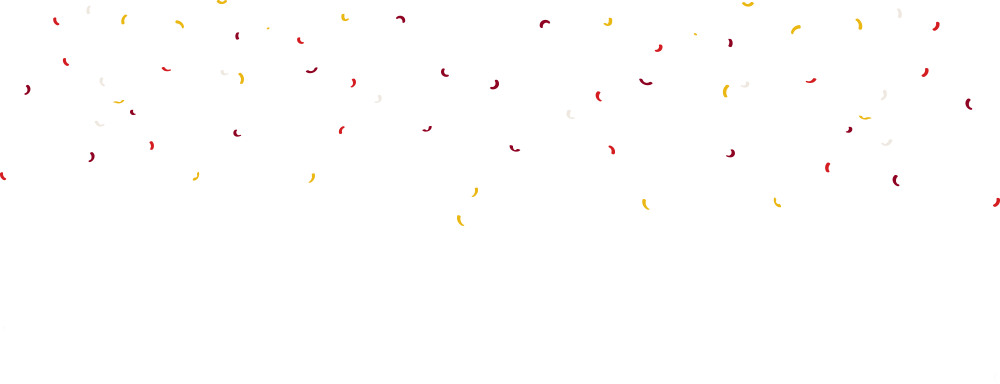
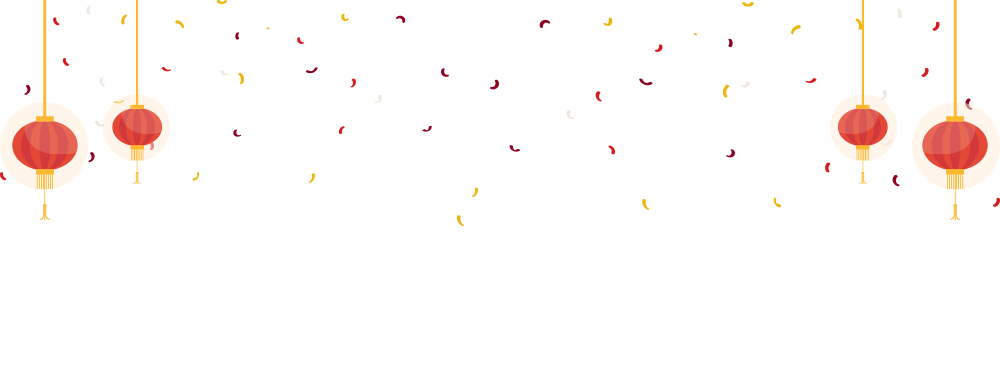
about+內頁版型完成

diff --git a/css/public.css b/css/public.css
@@ -1,1 +1,1 @@
-*,*:after,*:before{vertical-align:top;-moz-box-sizing:border-box;-webkit-box-sizing:border-box;box-sizing:border-box;-moz-osx-font-smoothing:antialiased;-webkit-font-smoothing:antialiased;-moz-font-smoothing:antialiased;-ms-font-smoothing:antialiased;-o-font-smoothing:antialiased}*::-moz-selection,*:after::-moz-selection,*:before::-moz-selection{color:#fff;background-color:#96c8ff}*::selection,*:after::selection,*:before::selection{color:#fff;background-color:#96c8ff}html{height:100%;min-height:100%}html body{position:relative;display:inline-block;width:100%;height:100%;min-height:100%;margin:0;padding:0;color:#5a5a5a;text-align:center;font-size:medium;font-family:Roboto, RobotoDraft, Helvetica, Arial, sans-serif, "微軟正黑體", "Microsoft JhengHei";background:#f4e3d3;-moz-osx-font-smoothing:antialiased;-webkit-font-smoothing:antialiased;-moz-font-smoothing:antialiased;-ms-font-smoothing:antialiased;-o-font-smoothing:antialiased}html body.in_b{background-image:url(../img/bg.jpg)}header{display:inline-block;width:100%;padding:30px 0;background-color:rgba(156,15,1,0.5)}@media screen and (max-width: 849px) and (min-width: 685px){header{padding:30px 10px}}@media screen and (max-width: 684px) and (min-width: 0){header{padding:10px}}header .nav_boxs{display:inline-block;width:100%;max-width:1000px;margin:0 auto}@media screen and (max-width: 684px) and (min-width: 0){header .nav_boxs{*zoom:1}header .nav_boxs:after{display:table;content:"";line-height:0;clear:both}}header .nav_boxs .menu_list{display:none;float:left;font-size:30px;color:#fcd081}@media screen and (max-width: 484px) and (min-width: 0){header .nav_boxs .menu_list{display:inline-block}}header .nav_boxs .nav_box{display:inline-block}@media screen and (max-width: 737px) and (min-width: 485px){header .nav_boxs .nav_box{width:calc(100% / 3);float:left;margin:8px 0}header .nav_boxs .nav_box:nth-child(3n+2){border-right:1px solid #fcd081;border-left:1px solid #fcd081}header .nav_boxs .nav_box:nth-child(1),header .nav_boxs .nav_box:nth-child(2),header .nav_boxs .nav_box:nth-child(3){margin-bottom:20px}}@media screen and (max-width: 484px) and (min-width: 0){header .nav_boxs .nav_box{display:none}}header .nav_boxs .nav_box:after{display:inline-block;content:'│';color:#fcd081;padding:0 10px}@media screen and (max-width: 737px) and (min-width: 0){header .nav_boxs .nav_box:after{display:none}}header .nav_boxs .nav_box:last-child:after{display:none}header .nav_boxs .nav_box a{display:inline-block;cursor:pointer;color:#fcd081;font-size:18px;line-height:20px;font-weight:600;text-decoration:none;-moz-transition:color .3s;-o-transition:color .3s;-webkit-transition:color .3s;transition:color .3s}header .nav_boxs .nav_box a:hover,header .nav_boxs .nav_box a:active{color:white}@media screen and (max-width: 799px) and (min-width: 738px){header .nav_boxs .nav_box a{font-size:16px}}@media screen and (max-width: 737px) and (min-width: 0){header .nav_boxs .nav_box a{font-size:18px}}#top{display:inline-block;width:100%}#top .top_boxs{display:inline-block;width:100%;background-image:url(../img/bg.jpg);padding:20px 0}#top .top_boxs .top_box{display:inline-block;width:100%;max-width:1000px;margin:0 auto;position:relative}#top .top_boxs .top_box img{width:100%;max-width:477px}#top .top_boxs .top_box .a_home{display:inline-block;cursor:pointer;width:40px;height:40px;position:absolute;top:6px;right:0;color:#d9972e;text-decoration:none;font-size:40px}#top .top_boxs .top_box .a_home:hover,#top .top_boxs .top_box .a_home:active{color:rgba(217,151,46,0.8)}#top .top_nav{display:inline-block;width:100%;background-color:#b88d60;padding:15px 0}#top .top_nav .top_nav_boxs{display:inline-block;width:100%;max-width:1000px;margin:0 auto;*zoom:1}#top .top_nav .top_nav_boxs:after{display:table;content:"";line-height:0;clear:both}#top .top_nav .top_nav_boxs .top_menu{display:inline-block;width:calc(100% / 6);float:left;border-right:1px solid white}#top .top_nav .top_nav_boxs .top_menu a{display:inline-block;text-decoration:none;color:white;font-size:18px;cursor:pointer;-moz-transition:all .3s;-o-transition:all .3s;-webkit-transition:all .3s;transition:all .3s;font-weight:600}#top .top_nav .top_nav_boxs .top_menu a:hover,#top .top_nav .top_nav_boxs .top_menu a:active,#top .top_nav .top_nav_boxs .top_menu a.aa{color:#92271c}.mobile_boxs{display:inline-block;width:100%;background-color:#b88d60;text-align:left;padding:0 10px}.mobile_boxs.no_show{display:none}.mobile_boxs a{display:inline-block;width:100%;line-height:50px;font-size:18px;text-decoration:none;color:white;font-weight:600;border-bottom:1px dotted rgba(252,208,129,0.8)}.mobile_boxs a:last-child{border:0}.mobile_boxs a:hover,.mobile_boxs a:active{color:#8c0e0d}#center{display:inline-block;width:100%}@media screen and (max-width: 849px) and (min-width: 0){#center{padding:0 10px}}#center .center_boxs{display:inline-block;width:100%;max-width:1000px;position:relative;padding:100px 0;margin:0 auto}#center .center_boxs.page_cent{padding:0}#center .center_boxs.page_cent:before,#center .center_boxs.page_cent:after{display:none}#center .center_boxs img{width:100%;max-width:919px}#center .center_boxs:before{display:inline-block;content:'';position:absolute;top:0;right:0;background-image:url(../img/f_dog.png);width:143px;height:189px;z-index:-10}#center .center_boxs:after{display:inline-block;content:'';position:absolute;bottom:0;left:0;background-image:url(../img/f_dog.png);width:143px;height:189px;z-index:-10}#center .center_boxs .title_boxs{display:inline-block;width:100%;max-height:384px;background:url(../img/tb_bg.png) no-repeat;*zoom:1}#center .center_boxs .title_boxs:after{display:table;content:"";line-height:0;clear:both}#center .center_boxs .title_boxs .title_name{display:inline-block;width:calc(100% - 170px * 2);padding:50px 0}#center .center_boxs .title_boxs .title_name .title_bg{display:inline-block;width:100%;max-width:371px;height:81px;background:url(../img/title_bg.png) no-repeat;color:#aa2729;font-size:35px;font-weight:600;line-height:60px}#center .center_boxs .title_boxs img{display:inline-block;width:100%;max-width:170px}#center .center_boxs .title_boxs img.il{float:left}#center .center_boxs .title_boxs img.ir{float:right}footer{display:inline-block;width:100%}footer .ft_bg,footer .fd_bg{display:inline-block;width:100%;padding:15px 0}@media screen and (max-width: 849px) and (min-width: 0){footer .ft_bg,footer .fd_bg{padding:15px 10px}}footer .ft_bg{background-color:#e95d07}footer .ft_bg .ft_boxs{display:inline-block;width:100%;max-width:1000px;margin:0 auto}footer .ft_bg .ft_boxs p{display:inline-block;padding:0 30px 0 0;margin:0;color:white;font-size:15px}@media screen and (max-width: 564px) and (min-width: 0){footer .ft_bg .ft_boxs p{width:100%;padding:0;line-height:25px}}footer .fd_bg{background-color:#55187a}footer .fd_bg .fd_boxs{display:inline-block;width:100%;max-width:1000px;margin:0 auto}footer .fd_bg .fd_boxs span{display:inline-block;width:100%;text-align:left;*zoom:1}footer .fd_bg .fd_boxs span:after{display:table;content:"";line-height:0;clear:both}@media screen and (max-width: 484px) and (min-width: 0){footer .fd_bg .fd_boxs span{padding-bottom:15px}}footer .fd_bg .fd_boxs span p{display:inline-block;width:75px;padding:0;margin:0;color:white;font-size:14px;float:left;line-height:25px}footer .fd_bg .fd_boxs span p:last-child{width:calc(100% - 75px)}@media screen and (max-width: 484px) and (min-width: 0){footer .fd_bg .fd_boxs span p:last-child{width:100%}}@media screen and (max-width: 484px) and (min-width: 0){footer .fd_bg .fd_boxs span p{width:100%}}
+*,*:after,*:before{vertical-align:top;-moz-box-sizing:border-box;-webkit-box-sizing:border-box;box-sizing:border-box;-moz-osx-font-smoothing:antialiased;-webkit-font-smoothing:antialiased;-moz-font-smoothing:antialiased;-ms-font-smoothing:antialiased;-o-font-smoothing:antialiased}*::-moz-selection,*:after::-moz-selection,*:before::-moz-selection{color:#fff;background-color:#96c8ff}*::selection,*:after::selection,*:before::selection{color:#fff;background-color:#96c8ff}html{height:100%;min-height:100%}html body{position:relative;display:inline-block;width:100%;height:100%;min-height:100%;margin:0;padding:0;color:#5a5a5a;text-align:center;font-size:medium;font-family:Helvetica, Arial, sans-serif, "微軟正黑體", "Microsoft JhengHei";background:#f4e3d3;-moz-osx-font-smoothing:antialiased;-webkit-font-smoothing:antialiased;-moz-font-smoothing:antialiased;-ms-font-smoothing:antialiased;-o-font-smoothing:antialiased}html body.in_b{background-image:url(../img/bg.jpg)}header{display:inline-block;width:100%;padding:30px 0;background-color:rgba(156,15,1,0.5)}@media screen and (max-width: 849px) and (min-width: 685px){header{padding:30px 10px}}@media screen and (max-width: 684px) and (min-width: 0){header{padding:10px}}header .nav_boxs{display:inline-block;width:100%;max-width:1000px;margin:0 auto}@media screen and (max-width: 684px) and (min-width: 0){header .nav_boxs{*zoom:1}header .nav_boxs:after{display:table;content:"";line-height:0;clear:both}}header .nav_boxs .menu_list{display:none;float:left;font-size:30px;color:#fcd081}@media screen and (max-width: 484px) and (min-width: 0){header .nav_boxs .menu_list{display:inline-block}}header .nav_boxs .nav_box{display:inline-block}@media screen and (max-width: 737px) and (min-width: 485px){header .nav_boxs .nav_box{width:calc(100% / 3);float:left;margin:8px 0}header .nav_boxs .nav_box:nth-child(3n+2){border-right:1px solid #fcd081;border-left:1px solid #fcd081}header .nav_boxs .nav_box:nth-child(1),header .nav_boxs .nav_box:nth-child(2),header .nav_boxs .nav_box:nth-child(3){margin-bottom:20px}}@media screen and (max-width: 484px) and (min-width: 0){header .nav_boxs .nav_box{display:none}}header .nav_boxs .nav_box:after{display:inline-block;content:'│';color:#fcd081;padding:0 10px}@media screen and (max-width: 737px) and (min-width: 0){header .nav_boxs .nav_box:after{display:none}}header .nav_boxs .nav_box:last-child:after{display:none}header .nav_boxs .nav_box a{display:inline-block;cursor:pointer;color:#fcd081;font-size:18px;line-height:20px;font-weight:600;text-decoration:none;-moz-transition:color .3s;-o-transition:color .3s;-webkit-transition:color .3s;transition:color .3s}header .nav_boxs .nav_box a:hover,header .nav_boxs .nav_box a:active{color:white}@media screen and (max-width: 799px) and (min-width: 738px){header .nav_boxs .nav_box a{font-size:16px}}@media screen and (max-width: 737px) and (min-width: 0){header .nav_boxs .nav_box a{font-size:18px}}#top{display:inline-block;width:100%}#top .top_boxs{display:inline-block;width:100%;background-image:url(../img/bg.jpg);padding:20px 0}#top .top_boxs .top_box{display:inline-block;width:100%;max-width:1000px;margin:0 auto;position:relative}#top .top_boxs .top_box img{width:100%;max-width:477px}#top .top_boxs .top_box .a_home{display:inline-block;cursor:pointer;width:40px;height:40px;position:absolute;top:6px;right:0;color:#d9972e;text-decoration:none;font-size:40px}#top .top_boxs .top_box .a_home:hover,#top .top_boxs .top_box .a_home:active{color:rgba(217,151,46,0.8)}@media screen and (max-width: 1059px) and (min-width: 450px){#top .top_boxs .top_box .a_home{margin:0 5px}}@media screen and (max-width: 449px) and (min-width: 0){#top .top_boxs .top_box .a_home{display:none}}#top .top_nav{display:inline-block;width:100%;background-color:#b88d60;padding:15px 0}#top .top_nav .top_nav_boxs{display:inline-block;width:100%;max-width:1000px;margin:0 auto;*zoom:1}#top .top_nav .top_nav_boxs:after{display:table;content:"";line-height:0;clear:both}#top .top_nav .top_nav_boxs .top_menu{display:inline-block;width:calc(100% / 6);float:left;border-right:1px solid white}#top .top_nav .top_nav_boxs .top_menu:last-child{border:0}@media screen and (max-width: 899px) and (min-width: 450px){#top .top_nav .top_nav_boxs .top_menu{width:calc(100% / 3)}#top .top_nav .top_nav_boxs .top_menu:nth-child(1),#top .top_nav .top_nav_boxs .top_menu:nth-child(2),#top .top_nav .top_nav_boxs .top_menu:nth-child(3){margin-bottom:20px}#top .top_nav .top_nav_boxs .top_menu:nth-child(3){border:0}}@media screen and (max-width: 449px) and (min-width: 0){#top .top_nav .top_nav_boxs .top_menu{display:none}}#top .top_nav .top_nav_boxs .top_menu a{display:inline-block;text-decoration:none;color:white;font-size:18px;cursor:pointer;-moz-transition:all .3s;-o-transition:all .3s;-webkit-transition:all .3s;transition:all .3s;font-weight:600}#top .top_nav .top_nav_boxs .top_menu a:hover,#top .top_nav .top_nav_boxs .top_menu a:active,#top .top_nav .top_nav_boxs .top_menu a.aa{color:#92271c}#top .top_nav .page_menu_list{display:none;float:left;font-size:30px;color:#fcd081;margin-left:10px}@media screen and (max-width: 449px) and (min-width: 0){#top .top_nav .page_menu_list{display:inline-block}}#top .top_nav .page_menu_home{display:none;float:right;font-size:30px;color:#fcd081;margin-right:10px;text-decoration:none}@media screen and (max-width: 449px) and (min-width: 0){#top .top_nav .page_menu_home{display:inline-block}}.mobile_boxs{display:inline-block;width:100%;background-color:#b88d60;text-align:left;padding:0 10px}.mobile_boxs.no_show{display:none}.mobile_boxs a{display:inline-block;width:100%;line-height:50px;font-size:18px;text-decoration:none;color:white;font-weight:600;border-bottom:1px dotted rgba(252,208,129,0.8)}.mobile_boxs a:last-child{border:0}.mobile_boxs a:hover,.mobile_boxs a:active{color:#8c0e0d}#center{display:inline-block;width:100%}#center .center_boxs{display:inline-block;width:100%;max-width:1000px;position:relative;padding:100px 0;margin:0 auto}#center .center_boxs.page_cent{padding:0}#center .center_boxs.page_cent:before,#center .center_boxs.page_cent:after{display:none}#center .center_boxs img{width:100%;max-width:919px}#center .center_boxs:before{display:inline-block;content:'';position:absolute;top:0;right:0;background-image:url(../img/f_dog.png);width:143px;height:189px;z-index:-10}#center .center_boxs:after{display:inline-block;content:'';position:absolute;bottom:0;left:0;background-image:url(../img/f_dog.png);width:143px;height:189px;z-index:-10}#center .center_boxs .title_boxs{display:inline-block;width:100%;padding:50px;background:url(../img/tb_bg.png) no-repeat;background-size:cover;*zoom:1;position:relative}#center .center_boxs .title_boxs:after{display:table;content:"";line-height:0;clear:both}@media screen and (max-width: 1059px) and (min-width: 0){#center .center_boxs .title_boxs{padding:30px 0}}#center .center_boxs .title_boxs .title_name{display:inline-block;width:100%;padding:50px 0}@media screen and (max-width: 324px) and (min-width: 0){#center .center_boxs .title_boxs .title_name{padding:25px 0}}#center .center_boxs .title_boxs .title_name .title_bg{display:inline-block;width:100%;max-width:371px;background:url(../img/title_bg.png) no-repeat;padding:5px 0 25px 0;color:#aa2729;font-size:35px;font-weight:600}@media screen and (max-width: 374px) and (min-width: 325px){#center .center_boxs .title_boxs .title_name .title_bg{background-size:99%}}@media screen and (max-width: 324px) and (min-width: 0){#center .center_boxs .title_boxs .title_name .title_bg{background-size:99%;padding:5px 0 25px 0;font-size:28px}}#center .center_boxs .content_boxs{display:inline-block;width:100%}@media screen and (max-width: 1059px) and (min-width: 0){#center .center_boxs .content_boxs{padding:0 10px}}#center .center_boxs .content_boxs .path_boxs{display:inline-block;width:100%;padding-bottom:30px;*zoom:1}#center .center_boxs .content_boxs .path_boxs:after{display:table;content:"";line-height:0;clear:both}@media screen and (max-width: 399px) and (min-width: 0){#center .center_boxs .content_boxs .path_boxs{padding-bottom:20px}}#center .center_boxs .content_boxs .path_boxs>div{display:inline-block;float:left}#center .center_boxs .content_boxs .path_boxs>div:after{display:inline-block;content:'>';color:#b88d60;font-size:16px;font-weight:600;padding:0 10px}#center .center_boxs .content_boxs .path_boxs>div:first-child a{font-size:25px}#center .center_boxs .content_boxs .path_boxs>div:last-child:after{display:none}#center .center_boxs .content_boxs .path_boxs>div a{display:inline-block;cursor:pointer;text-decoration:none;color:#b88d60;font-size:18px;font-weight:600;-moz-transition:all .3s;-o-transition:all .3s;-webkit-transition:all .3s;transition:all .3s}#center .center_boxs .content_boxs .path_boxs>div a:hover,#center .center_boxs .content_boxs .path_boxs>div a:active{color:rgba(217,151,46,0.8)}#center .center_boxs .content_boxs .little_boxs{display:inline-block;width:100%;*zoom:1}#center .center_boxs .content_boxs .little_boxs:after{display:table;content:"";line-height:0;clear:both}#center .center_boxs .content_boxs .little_boxs .little01{display:inline-block;background-color:#54187a;-moz-border-radius:30px;-webkit-border-radius:30px;border-radius:30px;padding:15px 20px;font-size:24px;color:white;float:left}@media screen and (max-width: 399px) and (min-width: 0){#center .center_boxs .content_boxs .little_boxs .little01{padding:10px 15px;font-size:18px}}#center .center_boxs .content_boxs .little_boxs p{display:inline-block;padding:0 10px;margin:0;float:left;color:#54187a;font-size:24px;float:left;line-height:63px}@media screen and (max-width: 399px) and (min-width: 0){#center .center_boxs .content_boxs .little_boxs p{line-height:45px;font-size:18px}}#center .center_boxs .content_boxs .type_boxs{display:inline-block;width:100%;margin:20px 0 50px 0;padding:30px 20px;border-top:2px solid #91609d;border-bottom:2px solid #91609d;text-align:left}@media screen and (max-width: 399px) and (min-width: 0){#center .center_boxs .content_boxs .type_boxs{padding:15px}}#center .center_boxs .content_boxs .type_boxs p{display:inline-block;width:100%;color:#171717;font-size:18px;line-height:30px;margin:0}#center .center_boxs .content_boxs .type_boxs p i{display:inline-block;font-style:normal;color:#fe6304;font-weight:600}footer{display:inline-block;width:100%}footer .ft_bg,footer .fd_bg{display:inline-block;width:100%;padding:15px 0}@media screen and (max-width: 849px) and (min-width: 0){footer .ft_bg,footer .fd_bg{padding:15px 10px}}footer .ft_bg{background-color:#e95d07}footer .ft_bg .ft_boxs{display:inline-block;width:100%;max-width:1000px;margin:0 auto}footer .ft_bg .ft_boxs p{display:inline-block;padding:0 30px 0 0;margin:0;color:white;font-size:15px}@media screen and (max-width: 564px) and (min-width: 0){footer .ft_bg .ft_boxs p{width:100%;padding:0;line-height:25px}}footer .fd_bg{background-color:#55187a}footer .fd_bg .fd_boxs{display:inline-block;width:100%;max-width:1000px;margin:0 auto}footer .fd_bg .fd_boxs span{display:inline-block;width:100%;text-align:left;*zoom:1}footer .fd_bg .fd_boxs span:after{display:table;content:"";line-height:0;clear:both}@media screen and (max-width: 484px) and (min-width: 0){footer .fd_bg .fd_boxs span{padding-bottom:15px}}footer .fd_bg .fd_boxs span p{display:inline-block;width:75px;padding:0;margin:0;color:white;font-size:14px;float:left;line-height:25px}footer .fd_bg .fd_boxs span p:last-child{width:calc(100% - 75px)}@media screen and (max-width: 484px) and (min-width: 0){footer .fd_bg .fd_boxs span p:last-child{width:100%}}@media screen and (max-width: 484px) and (min-width: 0){footer .fd_bg .fd_boxs span p{width:100%}}

diff --git a/scss/public.scss b/scss/public.scss
@@ -32,7 +32,7 @@ html {
     color: rgba(90, 90, 90, 1.00);
     text-align: center;
     font-size: medium;
-    font-family: Roboto, RobotoDraft, Helvetica, Arial, sans-serif, "微軟正黑體", "Microsoft JhengHei";
+    font-family: Helvetica, Arial, sans-serif, "微軟正黑體", "Microsoft JhengHei";
 
     background: rgba(244, 227, 211, 1.00);
 
@@ -189,6 +189,14 @@ header {
         &:hover, &:active {
           color: rgba(217, 151, 46, .8);
         }
+
+        @include range-width(450px, 1060px) {
+          margin: 0 5px;
+        }
+
+        @include range-width(0, 450px) {
+          display: none;
+        }
       }
     }
   }
@@ -212,6 +220,26 @@ header {
         float: left;
 
         border-right: 1px solid white;
+
+        &:last-child {
+          border: 0;
+        }
+
+        @include range-width(450px, 900px) {
+          width: calc(100% / 3);
+
+          &:nth-child(1), &:nth-child(2), &:nth-child(3) {
+            margin-bottom: 20px;
+          }
+
+          &:nth-child(3) {
+            border: 0;
+          }
+        }
+
+        @include range-width(0, 450px) {
+          display: none;
+        }
         
         a {
           display: inline-block;
@@ -228,6 +256,33 @@ header {
         }
 
       }
+    }
+
+    .page_menu_list {
+      display: none;
+
+      @include range-width(0, 450px) {
+        display: inline-block;
+      }
+
+      float: left;
+      font-size: 30px;
+      color: rgba(252, 208, 129, 1.00);
+      margin-left: 10px;
+    }
+
+    .page_menu_home {
+      display: none;
+
+      @include range-width(0, 450px) {
+        display: inline-block;
+      }
+
+      float: right;
+      font-size: 30px;
+      color: rgba(252, 208, 129, 1.00);
+      margin-right: 10px;
+      text-decoration: none;
     }
   }
 }
@@ -276,9 +331,9 @@ header {
   display: inline-block;
   width: 100%;
 
-  @include range-width(0, 850px) {
-    padding: 0 10px;
-  }
+  // @include range-width(0, 850px) {
+  //   padding: 0 10px;
+  // }
 
   .center_boxs {
     display: inline-block;
@@ -328,42 +383,174 @@ header {
     .title_boxs {
       display: inline-block;
       width: 100%;
-      max-height: 384px; 
+      padding: 50px;
       background: url(../img/tb_bg.png) no-repeat;
+      background-size: cover;
       @include clearfix();
+      position: relative;
+
+      @include range-width(0, 1060px) {
+        padding: 30px 0;
+      }
 
       .title_name {
         display: inline-block;
-        width: calc(100% - 170px * 2);
+        width: 100%;
         padding: 50px 0;
+
+        @include range-width(0, 325px) {
+          padding: 25px 0;
+        }
         
         .title_bg {
           display: inline-block;
           width: 100%;
           max-width: 371px;
-          height: 81px;
           background: url(../img/title_bg.png) no-repeat;
-
+          padding: 5px 0 25px 0;
           color: rgba(170, 39, 41, 1.00);
           font-size: 35px;
           font-weight: 600;
-          line-height: 60px;
+
+          @include range-width(325px, 375px) {
+            background-size: 99%;
+          }
+
+          @include range-width(0, 325px) {
+            background-size: 99%;
+            padding: 5px 0 25px 0;
+            font-size: 28px;
+          }
+
+        }
+      }
+    }
+
+    .content_boxs {
+      display: inline-block;
+      width: 100%;
+
+      @include range-width(0, 1060px) {
+        padding: 0 10px;
+      }
+
+      .path_boxs {
+        display: inline-block;
+        width: 100%;
+        padding-bottom: 30px;
+        @include clearfix();
+
+        @include range-width(0, 400px) {
+          padding-bottom: 20px;
+        }
+
+        > div {
+          display: inline-block;
+          float: left;
+
+          &:after {
+            display: inline-block;
+            content: '>';
+            color: rgba(184, 141, 96, 1.00);
+            font-size: 16px;
+            font-weight: 600;
+            padding: 0 10px;
+          }
+
+          &:first-child {
+            a {
+              font-size: 25px;
+            }
+          }
+
+          &:last-child {
+            &:after {
+              display: none;
+            }
+          }
+
+          a {
+            display: inline-block;
+            cursor: pointer;
+            text-decoration: none;
+            color: rgba(184, 141, 96, 1.00);
+            font-size: 18px;
+            font-weight: 600;
+            @include transition(all .3s);
+            
+            &:hover, &:active {
+              color: rgba(217, 151, 46, .8);
+            }
+          }
         }
       }
 
-      img {
+      .little_boxs {
         display: inline-block;
         width: 100%;
-        max-width: 170px;
+        @include clearfix();
 
-        &.il {
+        .little01 {
+          display: inline-block;
+          background-color: rgba(84, 24, 122, 1.00);
+          @include border-radius(30px);
+          padding: 15px 20px;
+          font-size: 24px;
+          color: white;
           float: left;
+
+          @include range-width(0, 400px) {
+            padding: 10px 15px;
+            font-size: 18px;
+          }
         }
 
-        &.ir {
-          float: right;
+        p {
+          display: inline-block;
+          padding: 0 10px;
+          margin: 0;
+          float: left;
+          color: rgba(84, 24, 122, 1.00);
+          font-size: 24px;
+          float: left;
+          line-height: 63px;
+
+           @include range-width(0, 400px) {
+            line-height: 45px;
+            font-size: 18px;
+          }
         }
-      } 
+      }
+
+      .type_boxs {
+        display: inline-block;
+        width: 100%;
+        margin: 20px 0 50px 0;
+        padding: 30px 20px;
+        border-top: 2px solid rgba(145, 96, 157, 1.00); 
+        border-bottom: 2px solid rgba(145, 96, 157, 1.00);
+        text-align: left; 
+
+        @include range-width(0, 400px) {
+          padding: 15px;
+        }
+
+        p {
+          display: inline-block;
+          width: 100%;
+          color: rgba(23, 23, 23, 1.00);
+          font-size: 18px;
+          line-height: 30px;
+          margin: 0;
+
+          i {
+            display: inline-block;
+            font-style: normal;
+            color: rgba(254, 99, 4, 1.00);
+            font-weight: 600;
+          }
+        }
+      }
     }
   }
 }

diff --git a/about.html b/about.html
@@ -31,19 +31,53 @@
           <div class='top_menu'><a href="active.html">活動資訊</a></div>
           <div class='top_menu'><a href="travel.html">燈節順道遊活動</a></div>
           <div class='top_menu'><a href="traffic.html">交通資訊</a></div>
+
+          <!-- mobile -->
+          <div class='page_menu_list icon-menu'></div>
+          <a class='page_menu_home icon-home' href="index.html"></a>
         </div>
       </div>
+    </div>
+
+    <!-- mobile -->
+    <div class='mobile_boxs no_show'>
+      <a href="news.html">最新消息</a>
+      <a href="about.html">關於桃園燈節</a>
+      <a href="lantern.html">四大燈區</a>
+      <a href="active.html">活動資訊</a>
+      <a href="travel.html">燈節順道遊活動</a>
+      <a href="traffic.html">交通資訊</a>
     </div>
 
 
     <div id='center'>
       <div class='center_boxs page_cent'>
         <div class='title_boxs'>
-          <img class='il' src="img/ll.png">
           <div class='title_name'>
             <div class='title_bg'>關於桃園燈節</div>
           </div>
-          <img class='ir' src="img/lr.png">
+        </div>
+
+        <div class='content_boxs'>
+          <div class='path_boxs'>
+            <div><a href="index.html" class='icon-home'></a></div>
+            <div><a href="about.html">關於桃園燈節</a></div>
+          </div>
+
+          <div class='little_boxs'>
+            <div class='little01'>關於桃園燈節</div>
+            <p>活動起源</p>
+          </div>
+
+          <div class='type_boxs'>
+            <p>
+            桃園燈會自2003年起透過各公所爭取，曾走過中壢、桃園、蘆竹及龍潭，展現了桃園多元的地方特色。
+            <br/><br/>
+            本府於2014 -2017於龍潭辦理桃園燈會，吸引遊客前來賞燈迎財神，展現地方獨特文化風貌。
+            <br/><br/>
+            因應龍潭大池吊橋改建暨推廣桃園多元風貌，2018桃園燈節擬移師南崁溪沿岸舉辦，並結合南崁溪特色橋樑規劃特色燈飾，提供民眾春遊桃園的好去處，2018年謹持續規劃自<i>2月21日至3月4日(總計12天)</i>。
+            </p>
+          </div>
         </div>
       </div>
     </div>

diff --git a/js/public.js b/js/public.js
@@ -6,7 +6,7 @@
 
 $(function () {
 
-  $('.menu_list').click (function () {
+  $('.menu_list, .page_menu_list').click (function () {
      $('.mobile_boxs').toggleClass ('no_show');
     }
   );
